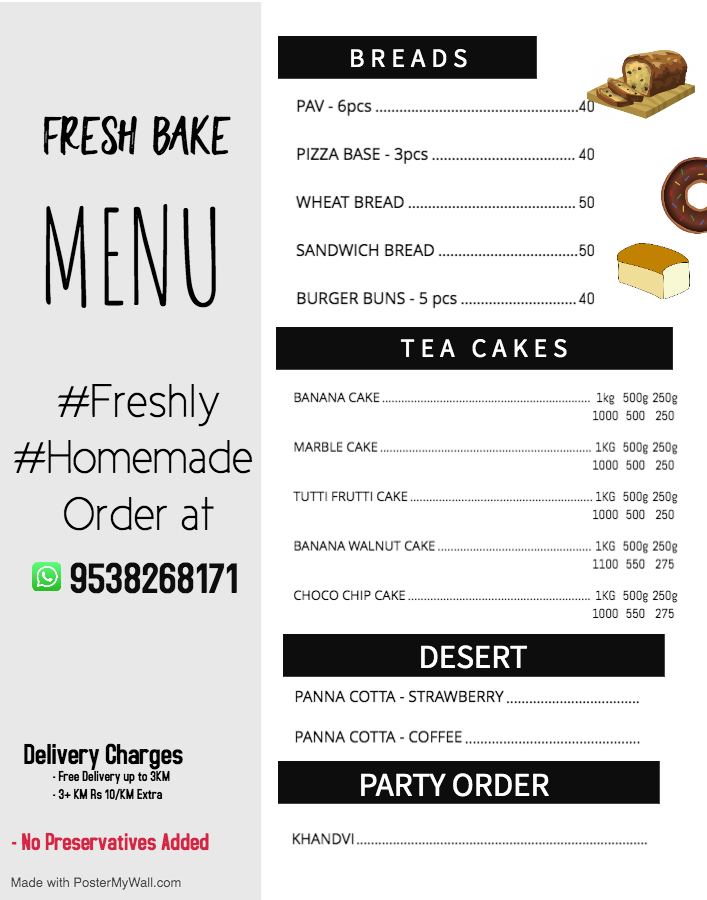
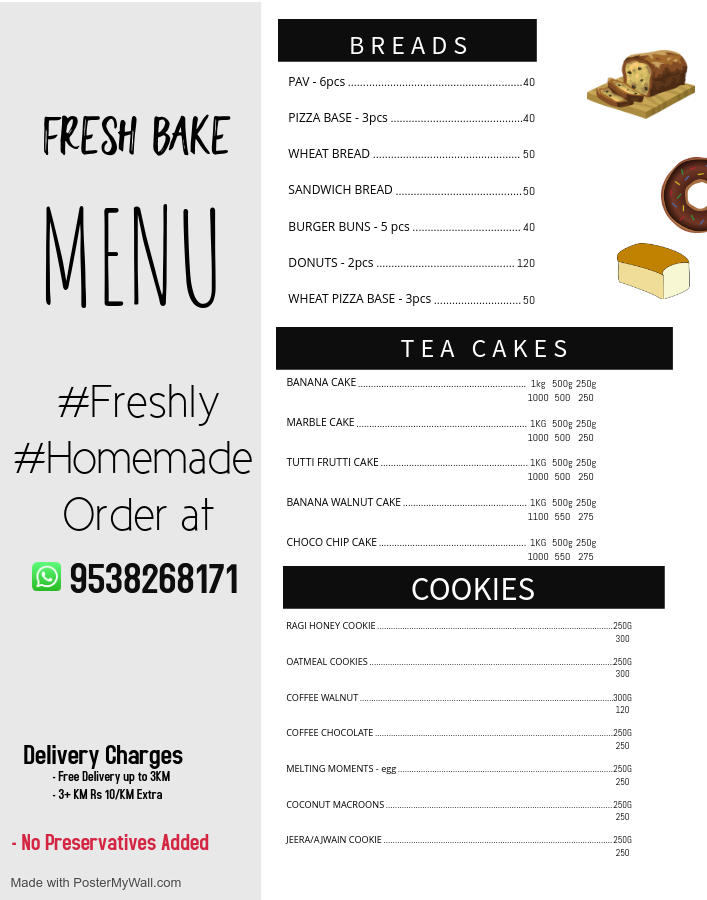
added menu3

diff --git a/index.html b/index.html
@@ -6,7 +6,8 @@
   <meta charset="utf-8" />
   <meta name="viewport" content="width=device-width, initial-scale=1.0" />
   <link rel="stylesheet" href="https://www.w3schools.com/w3css/4/w3.css">
-  <meta name="keywords" content="Online Cake Delivery in, cakes, best cakes in , online cakes, designer cakes , chocolate cakes , all cakes, cupcakes, wheat bread, sandwich bread, donuts, homemade items, bakery near me, Cakes Near me cakes shop near me">
+  <meta name="keywords" content="Online Cake Delivery in, cakes, best cakes in , online cakes, designer cakes , chocolate cakes , all cakes, cupcakes, wheat bread, sandwich bread, donuts, homemade items, bakery near me, Cakes Near me cakes shop near me, Oat meal
+  Homemade cookies and cakes,No preservatives, Coffee Walnut cookies, Coffee Chocolate cookies, Melting Moments cookies, Coconut Macaroon, Jeera cookies">
 <body>
   <title>FreshBake: Homemade Bakery Item</title>
 
